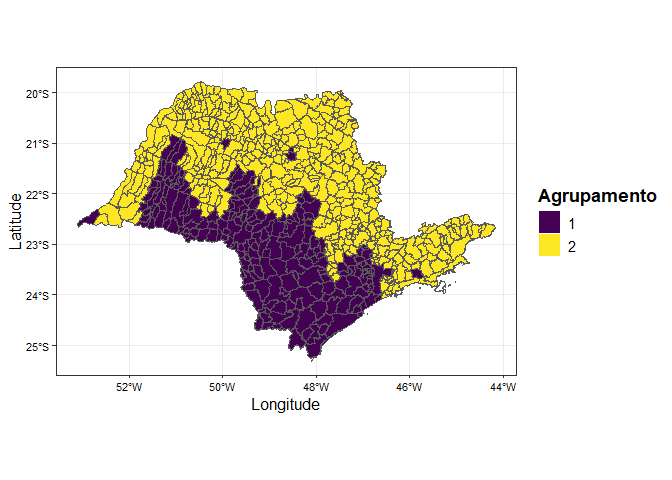
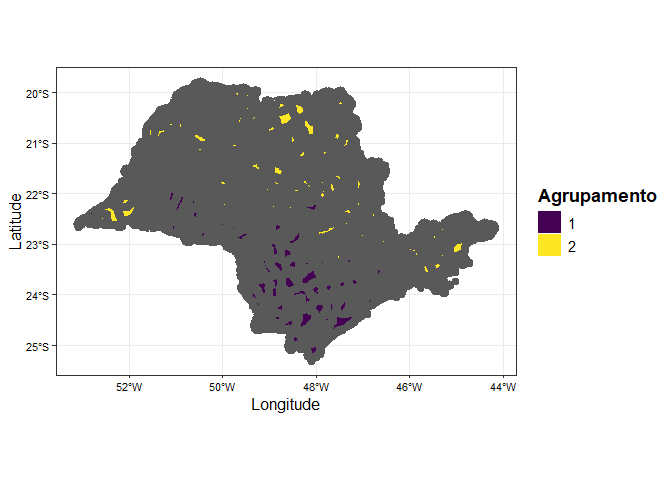
grafico tcc final atualizado

Changed region(s): [[0.0938, 0.1562, 0.75, 0.7812]]

diff --git a/README.md b/README.md
@@ -1522,7 +1522,7 @@ kgr_maps_beta_cover_group <- kgr_maps_beta_anom |>
       rename(city = name_muni),
     by=c("city")
     ) |> 
-  select(-xco2, -anom_xco2, -year, -season_year, -season)
+  select(-anom_xco2, -year, -season_year, -season)
 ```
 
 ``` r
@@ -1598,16 +1598,18 @@ kgr_maps_beta_cover_group |>
 ![](README_files/figure-gfm/unnamed-chunk-63-1.png)<!-- -->
 
 ``` r
-# kgr_maps_beta_cover_group |> 
-#   mutate(
-#     descricao = ifelse(descricao %in% my_top_7_cover,
-#                          descricao, "Other")
-#   ) |> 
-#   ggplot(aes(x=as_factor(grupo), y=anomaly_xco2, fill=as_factor(grupo))) +
-#   geom_boxplot() +
-#   scale_fill_viridis_d() +
-#   theme_bw()
+kgr_maps_beta_cover_group |>
+  mutate(
+    descricao = ifelse(descricao %in% my_top_7_cover,
+                         descricao, "Other")
+  ) |>
+  ggplot(aes(x=as_factor(grupo), y=xco2, fill=as_factor(grupo))) +
+  geom_boxplot() +
+  scale_fill_viridis_d() +
+  theme_bw()
 ```
+
+![](README_files/figure-gfm/unnamed-chunk-64-1.png)<!-- -->
 
 ``` r
 # primeiro analisa xCO2
